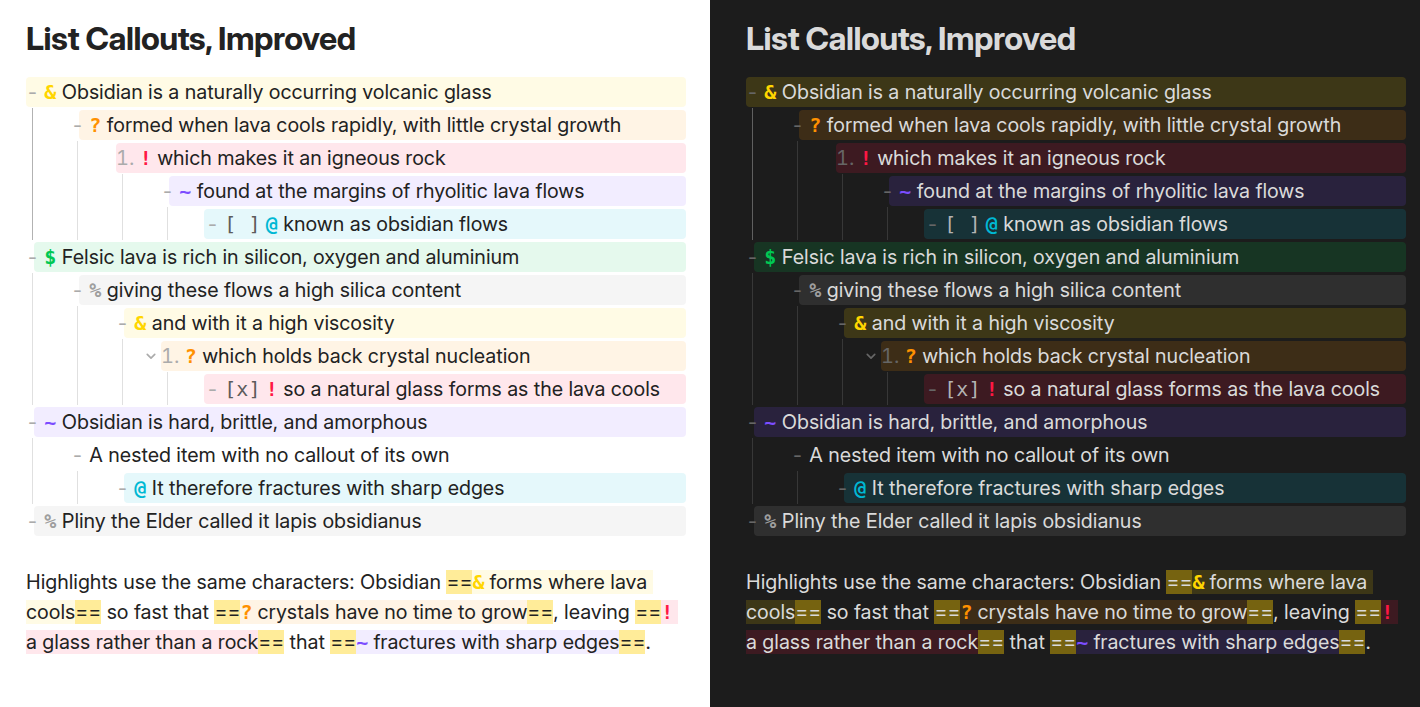
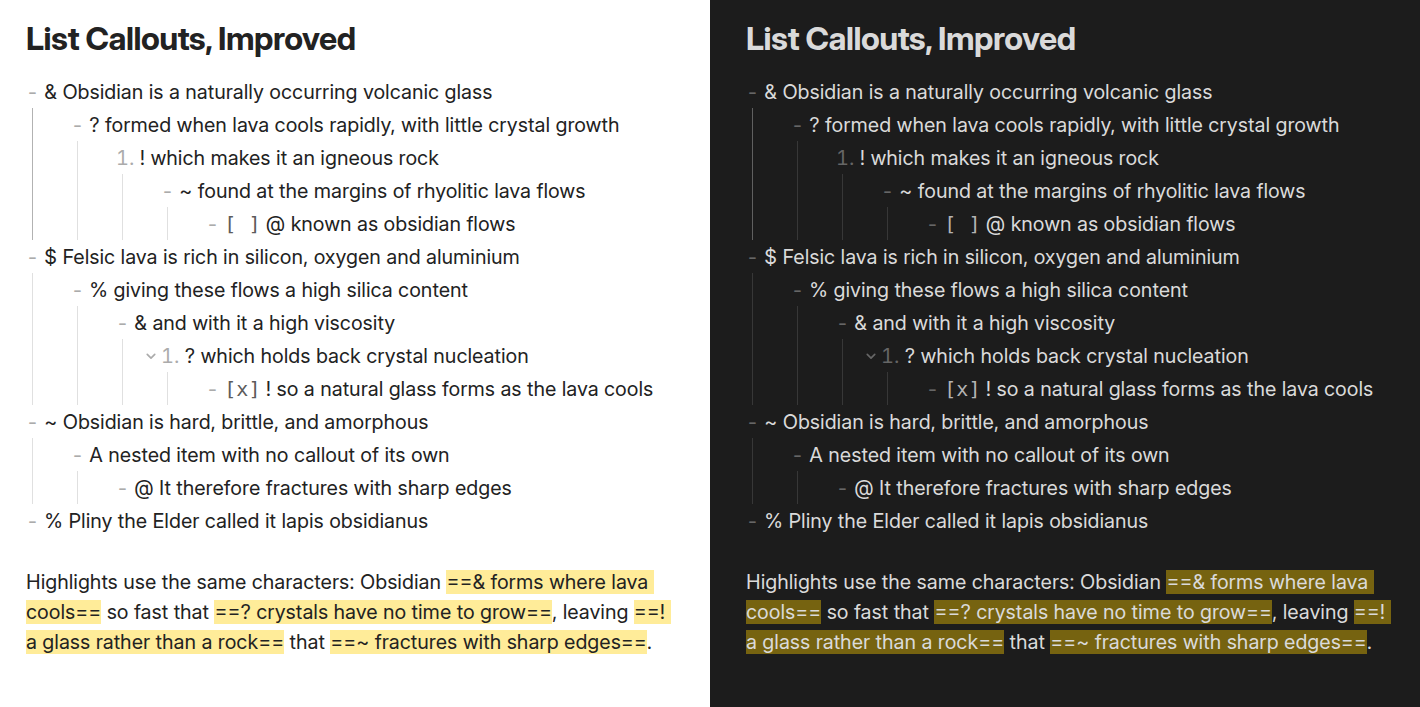
Leave source mode as raw markdown, with no callout drawn over it (#47)
Source mode is where Obsidian shows the markdown as typed, and the
editor extension has been decorating it the same as Live Preview: the
callout character replaced by its marker widget, the band painted
behind the line and highlights recolored. That hides the character
people want to see and edit there (mgmeyers/obsidian-list-callouts#35).

The decoration build now returns nothing unless the editor is in Live
Preview, and the view plugin rebuilds when the mode flips, since
Obsidian reconfigures the editor in place with the document, viewport
and syntax tree unchanged. That rebuild also fixes a smaller pre-existing
gap: a highlight's marker widget was already Live Preview only, but
was not redrawn on the switch back from source mode until the next
edit or scroll.

The README's source-mode companion screenshots are regenerated, and
the capture script waits for a plain editor line there rather than a
callout line that no longer exists.

diff --git a/test/specs/sourceMode.e2e.ts b/test/specs/sourceMode.e2e.ts
@@ -1,0 +1,185 @@
+import { browser, expect } from '@wdio/globals';
+import { after, before, describe, it } from 'mocha';
+import { obsidianPage } from 'wdio-obsidian-service';
+
+import {
+  captureRendering,
+  editorLineText,
+  openNote,
+  placeCursor,
+  setRendering,
+} from '../helpers';
+
+const EDITOR = '.workspace .markdown-source-view';
+
+/** Everything the editor extension draws, by class. */
+const DECORATION_CLASSES = [
+  'lc-list-callout',
+  'lc-list-callout-continuation',
+  'lc-list-bg',
+  'lc-list-marker',
+  'lc-highlight-callout',
+  'lc-highlight-marker',
+];
+
+/** How many elements of each decoration class the editor holds. */
+function decorationCounts(): Promise<Record<string, number>> {
+  return browser.executeObsidian(
+    ({ app }, root: string, classes: string[]) => {
+      const counts: Record<string, number> = {};
+      for (const cls of classes) {
+        counts[cls] = app.workspace.containerEl.querySelectorAll(
+          `${root} .${cls}`
+        ).length;
+      }
+      return counts;
+    },
+    EDITOR,
+    DECORATION_CLASSES
+  );
+}
+
+function isLivePreview(): Promise<boolean> {
+  return browser.executeObsidian(({ app }, root: string) => {
+    const view = app.workspace.containerEl.querySelector(root);
+    return !!view && view.classList.contains('is-live-preview');
+  }, EDITOR);
+}
+
+async function waitForRendering(livePreview: boolean): Promise<void> {
+  await browser.waitUntil(async () => (await isLivePreview()) === livePreview, {
+    timeout: 10000,
+    timeoutMsg: `the editor did not switch to ${livePreview ? 'live preview' : 'source mode'}`,
+  });
+}
+
+async function waitForDecorations(): Promise<Record<string, number>> {
+  let counts: Record<string, number> = {};
+  await browser.waitUntil(
+    async () => {
+      counts = await decorationCounts();
+      return counts['lc-list-callout'] > 0 && counts['lc-highlight-callout'] > 0;
+    },
+    { timeout: 10000, timeoutMsg: 'the editor never decorated the note' }
+  );
+  return counts;
+}
+
+function expectNothingDecorated(counts: Record<string, number>) {
+  for (const cls of DECORATION_CLASSES) {
+    expect(counts[cls]).toBe(0);
+  }
+}
+
+/**
+ * mgmeyers/obsidian-list-callouts#35: source mode is where the raw markdown
+ * is meant to show, so a callout there is the plain `- & text` with nothing
+ * drawn over it, no marker, band or highlight color, and the character can
+ * be seen and edited as typed. Live preview keeps the rendering, and
+ * switching between the two redraws on its own, with no edit in between.
+ */
+describe('Source mode', function () {
+  before(async function () {
+    await obsidianPage.resetVault();
+    await openNote('Callouts.md');
+    await waitForRendering(true);
+    await waitForDecorations();
+    // Off the callout lines: the caret reveals a highlight's raw marker in
+    // live preview, and the point here is what mode does, not the caret.
+    await placeCursor(0, 0);
+  });
+
+  after(async function () {
+    await setRendering('live-preview');
+  });
+
+  describe('switched to from live preview', function () {
+    before(async function () {
+      await setRendering('source');
+      await waitForRendering(false);
+    });
+
+    it('draws no callout, marker, band or highlight', async function () {
+      await browser.waitUntil(
+        async () => (await decorationCounts())['lc-list-callout'] === 0,
+        {
+          timeout: 10000,
+          timeoutMsg: 'source mode kept the callout decorations',
+        }
+      );
+      expectNothingDecorated(await decorationCounts());
+    });
+
+    it('shows the raw text, callout character included', async function () {
+      expect(await editorLineText('Important')).toBe('- & Important');
+      expect(await editorLineText('Mixed line')).toBe(
+        '- & Mixed line with ==! inline== highlight'
+      );
+    });
+
+    it('stays plain while the caret moves through a callout', async function () {
+      await placeCursor(5, 4);
+      expect(await editorLineText('Important')).toBe('- & Important');
+      expectNothingDecorated(await decorationCounts());
+      await placeCursor(0, 0);
+    });
+
+    it('captures the rendering for visual inspection', async function () {
+      const file = await captureRendering('source-mode');
+      expect(file).toContain('source-mode');
+    });
+  });
+
+  describe('switched back to live preview', function () {
+    before(async function () {
+      await setRendering('live-preview');
+      await waitForRendering(true);
+    });
+
+    it('decorates the callouts again without an edit', async function () {
+      const counts = await waitForDecorations();
+      expect(counts['lc-list-marker']).toBe(counts['lc-list-callout']);
+      expect(counts['lc-list-bg']).toBe(counts['lc-list-callout']);
+      expect(counts['lc-highlight-marker']).toBe(counts['lc-highlight-callout']);
+    });
+
+    it('hides the callout character behind its marker', async function () {
+      // The marker widget carries the character, so the visible text is the
+      // same; what changes is that it is a widget, not the document's text.
+      const marker = await browser.executeObsidian(({ app }, root: string) => {
+        const line = Array.from(
+          app.workspace.containerEl.querySelectorAll<HTMLElement>(
+            `${root} .cm-line.lc-list-callout`
+          )
+        ).find((el) => (el.textContent ?? '').includes('Important'));
+        return line?.querySelector('.lc-list-marker')?.textContent ?? null;
+      }, EDITOR);
+      expect(marker).toBe('&');
+    });
+  });
+
+  describe('opened in source mode', function () {
+    before(async function () {
+      await setRendering('source');
+      await waitForRendering(false);
+      // A note of its own, so this is a first draw rather than a redraw of
+      // the one already open. The leaf keeps its rendering across notes.
+      await browser.executeObsidian(async ({ app }) => {
+        await app.vault.create('Opened.md', '1. & Opened in source mode\n');
+      });
+      await openNote('Opened.md');
+      await waitForRendering(false);
+    });
+
+    it('is plain from the first draw', async function () {
+      await browser.waitUntil(
+        async () => (await editorLineText('Opened in')) !== '',
+        { timeout: 10000, timeoutMsg: 'the note did not open' }
+      );
+      expect(await editorLineText('Opened in')).toBe(
+        '1. & Opened in source mode'
+      );
+      expectNothingDecorated(await decorationCounts());
+    });
+  });
+});

diff --git a/src/extension.ts b/src/extension.ts
@@ -358,11 +358,11 @@ function highlightEndAfter(state: EditorState, pos: number): number | null {
 }
 
 /**
- * Decorate one highlight callout: a mark over the content plus, in Live
- * Preview, a replacement showing the marker -- the character, or the icon
- * when one is set -- in place of the raw character and space. The
- * replacement is dropped while the selection touches the highlight, so the
- * raw `==& ` is there to edit, which is what Obsidian does with `==`.
+ * Decorate one highlight callout: a mark over the content plus a replacement
+ * showing the marker -- the character, or the icon when one is set -- in
+ * place of the raw character and space. The replacement is dropped while the
+ * selection touches the highlight, so the raw `==& ` is there to edit, which
+ * is what Obsidian does with `==`.
  */
 function addHighlightDeco(
   builder: RangeSetBuilder<Decoration>,
@@ -378,9 +378,7 @@ function addHighlightDeco(
 
   outer.add(contentFrom, contentTo, highlightDecoration(callout));
 
-  const livePreview = state.field(editorLivePreviewField, false) ?? false;
-
-  if (livePreview && !selectionTouches(state, contentFrom - 2, contentTo + 2)) {
+  if (!selectionTouches(state, contentFrom - 2, contentTo + 2)) {
     builder.add(
       contentFrom,
       markerTo,
@@ -465,8 +463,18 @@ function addHighlightDecos(
   );
 }
 
+/** Whether the editor is in Live Preview, as opposed to source mode. */
+function isLivePreview(state: EditorState): boolean {
+  return state.field(editorLivePreviewField, false) ?? false;
+}
+
 /**
  * Build the callout decorations for everything on screen.
+ *
+ * Nothing at all in source mode: that is the rendering Obsidian keeps as raw
+ * markdown, and a callout there shows as the `- & text` the user typed, with
+ * no marker, band or highlight color drawn over it, so the character is
+ * there to see and edit (mgmeyers/obsidian-list-callouts#35).
  *
  * Walks the visible lines and tests each against the callout pattern, rather
  * than walking every syntax node in the viewport. The viewport holds a few
@@ -479,7 +487,11 @@ export function buildCalloutDecos(
   stats?: BuildStats
 ): CalloutDecorations {
   const config = state.field(calloutsConfigField);
-  if ((!config?.re && !config?.highlightRe) || !view.visibleRanges.length)
+  if (
+    !isLivePreview(state) ||
+    (!config?.re && !config?.highlightRe) ||
+    !view.visibleRanges.length
+  )
     return { decorations: Decoration.none, outerDecorations: Decoration.none };
 
   const builder = new RangeSetBuilder<Decoration>();
@@ -776,6 +788,10 @@ export const calloutExtension = ViewPlugin.fromClass(
 
       if (
         layoutMayHaveChanged ||
+        // Switching between Live Preview and source mode reconfigures the
+        // editor in place, with the document, viewport and tree as they
+        // were; the decorations are drawn in one and not the other.
+        isLivePreview(update.state) !== isLivePreview(update.startState) ||
         // A highlight's marker is hidden or revealed by where the caret is,
         // so caret movement matters -- but only on a screen that has one.
         (update.selectionSet && this.hasHighlights) ||

diff --git a/test/capture/readme.capture.ts b/test/capture/readme.capture.ts
@@ -1594,7 +1594,9 @@ describe('README screenshots', function () {
   it('captures the character rendering in reading view and source mode', async function () {
     // The same note through the other two renderings, so a change to one
     // renderer can be compared against the others without opening Obsidian.
-    // Not in the README, which shows live preview alone.
+    // Source mode is left as raw markdown (upstream #35), so its companion
+    // shows what the plugin does not draw. Not in the README, which shows
+    // live preview alone.
     await setRendering('reading');
     await captureEditor(
       'callout-characters.reading.png',
@@ -1610,7 +1612,7 @@ describe('README screenshots', function () {
       'callout-characters.source.png',
       false,
       true,
-      '.markdown-source-view:not(.is-live-preview) .lc-list-callout'
+      '.markdown-source-view:not(.is-live-preview) .cm-line'
     );
 
     // The leaf keeps its rendering across notes, and the rest of the set is
@@ -1669,7 +1671,7 @@ describe('README screenshots', function () {
       'callout-multiline.source.png',
       true,
       true,
-      '.markdown-source-view:not(.is-live-preview) .lc-list-callout'
+      '.markdown-source-view:not(.is-live-preview) .cm-line'
     );
 
     await setRendering('live-preview');

diff --git a/CONTRIBUTING.md b/CONTRIBUTING.md
@@ -116,7 +116,9 @@ regenerate them if you change how callouts look. The same run also writes
 `.reading.png` and `.source.png` companions for some notes (the README's first
 note and the multi-line items one), the same note in reading view and source
 mode; a name without a suffix is Live Preview. Those companions are not in the
-README but are there to compare the renderers against each other. That script needs the Inter font
+README but are there to compare the renderers against each other: reading view
+should match Live Preview, and source mode should show the raw markdown with
+nothing drawn over it. That script needs the Inter font
 and, for the two captures with a color picker open, `ffmpeg` and a Linux display
 (the picker is a window of Chromium's own, so it is grabbed off the screen rather
 than out of the page).

diff --git a/README.md b/README.md
@@ -35,6 +35,8 @@ The previews in the settings tab follow the toggle, so each callout shows how it
 
 ![The settings tab with Hide bullets and numbers turned on: every callout's preview line shows its marker in place of the bullet, in light and dark mode](screenshots/settings-hidden-bullets.png)
 
+Callouts are drawn in Live Preview and reading view. Source mode shows the raw markdown, `- & Important` and so on, with no marker, band or highlight color over it, so the callout character is there to see and edit.
+
 Callout padding and background intensity can be adjusted with the Style Settings plugin.
 
 ## Highlights
